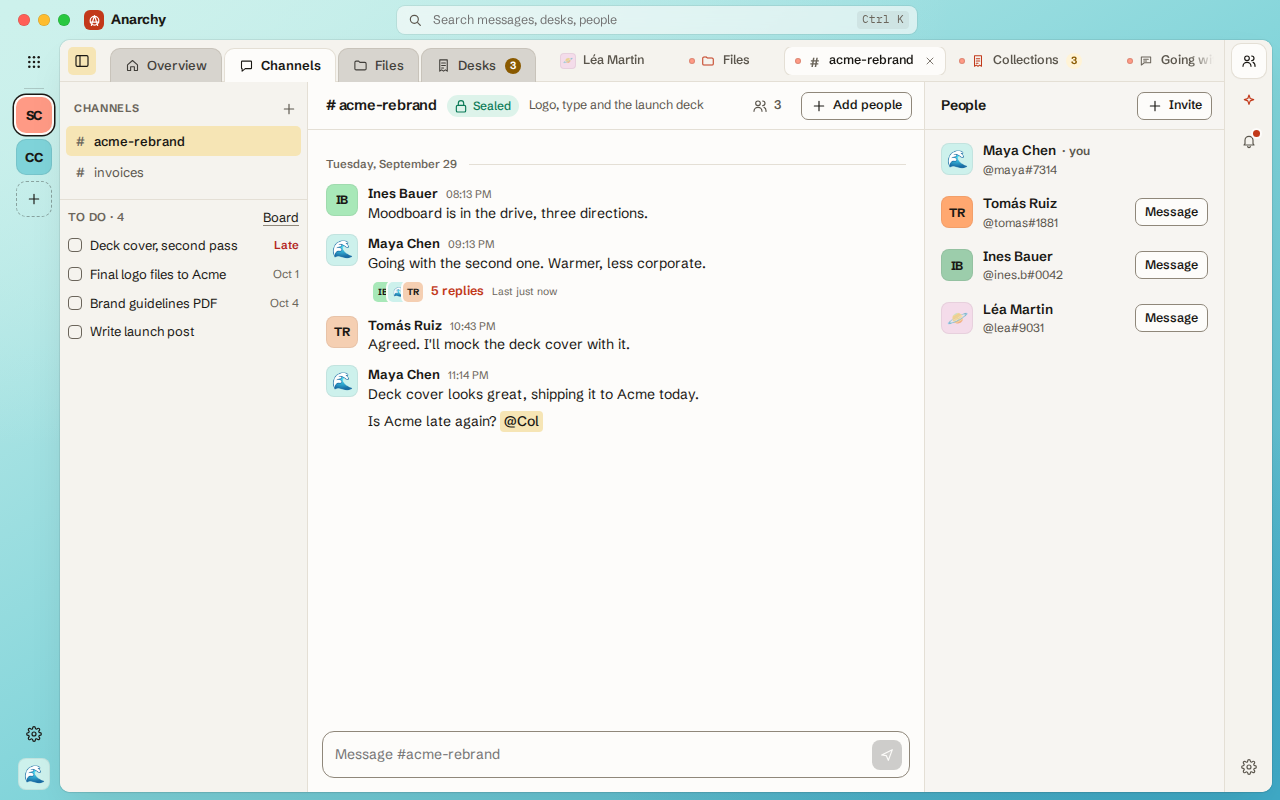
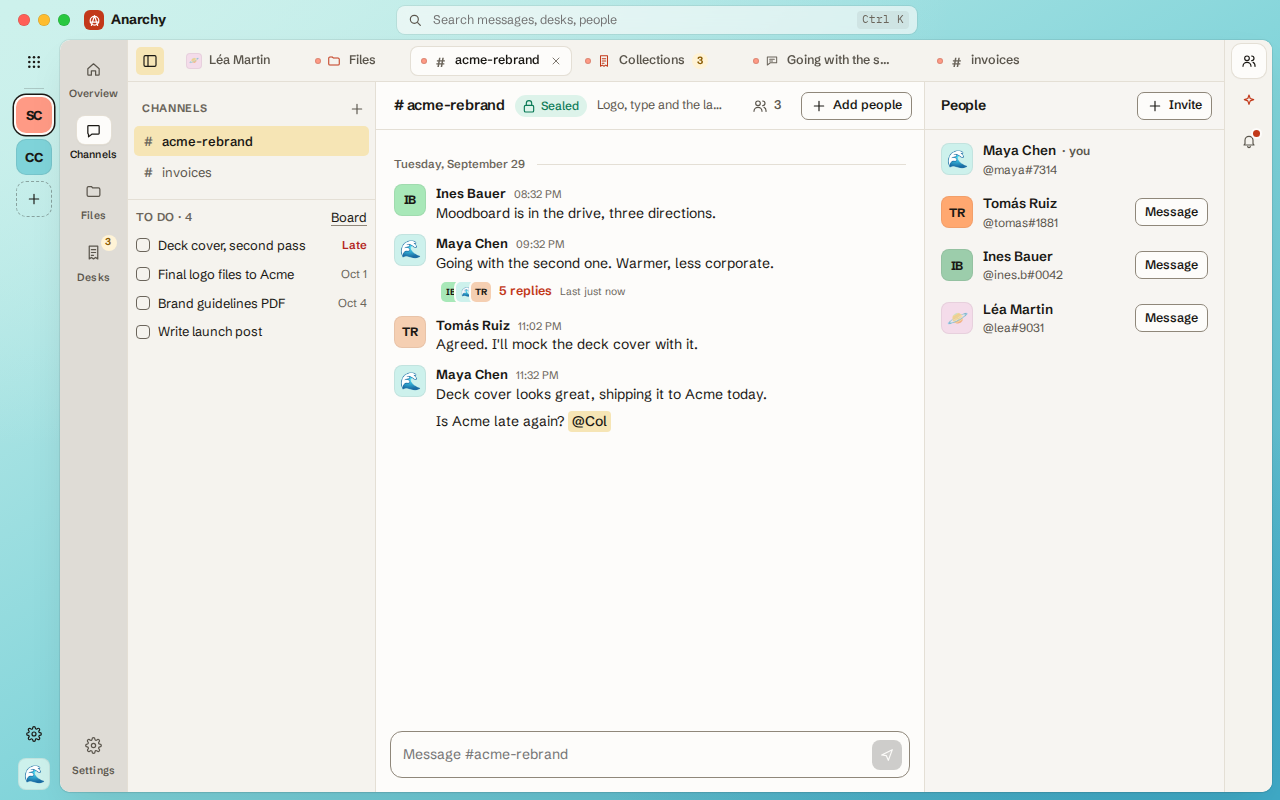
Sections move to a labelled strip on the left; tabs are only the working set
The space's sections (Home: Overview, Chats, Agenda, Notes, Files, Tasks;
a space: Overview, Channels, Files, Desks) sit in a strip beside the space
rail with icon and label; a space's settings open as a page from its foot.
In settings the strip lists the pages. The top row holds only what's open.
People, the assistant and notifications stay on the right. Docs: D30,
including the agent model (one sidekick per person; desks stay places).

Claude-Session: https://claude.ai/code/session_01JqRrPLnBLMGeUFp3LTktD7

diff --git a/apps/desktop/ui/app.js b/apps/desktop/ui/app.js
@@ -516,7 +516,7 @@ function belongsHere(c) {
   return view === "home" ? c.kind === "dm" : view === "space" && c.kind === "channel" && c.space === currentSpace?.id;
 }
 function hideMain() {
-  for (const v of ["view-start", "view-convo", "view-space-empty", "view-desk", "view-drive", "view-settings", "view-agenda", "view-notes", "view-board"]) show(v, false);
+  for (const v of ["view-start", "view-convo", "view-space-empty", "view-desk", "view-drive", "view-settings", "view-agenda", "view-notes", "view-board", "view-spaceset"]) show(v, false);
   show("view-desks", false);
 }
 function showStart() {
@@ -876,6 +876,7 @@ function sectionNow() {
   const cur = channels.find((c) => c.id === current);
   if (!cur && chatsHint && (view === "home" || view === "space")) return "chats";
   if (!$("view-desks").hidden) return "desks";
+  if (!$("view-spaceset").hidden) return "spaceset";
   if (!$("view-agenda").hidden) return "agenda";
   if (!$("view-notes").hidden) return note?.file ? "files" : notesState.shared ? "desks" : "notes";
   if (!cur) return "overview";
@@ -897,9 +898,13 @@ function renderFolders() {
       : [{ key: "overview", label: "Overview", icon: "home" }, { key: "chats", label: "Channels", icon: "chat", dot: unread }, { key: "files", label: "Files", icon: "folder" }, { key: "desks", label: "Desks", icon: "receipt", n: [...deskNeeds.entries()].filter(([id]) => channels.find((c) => c.id === id)?.space === currentSpace?.id).reduce((a, [, n]) => a + n, 0) }];
     folders = folders.map((f) => ({ ...f, active: f.key === now, go: () => openSection(f.key) }));
   }
-  $("folder-tabs").replaceChildren(...folders.map((f) => el("button", { class: `folder${f.active ? " active" : ""}`, type: "button", role: "tab", "aria-selected": String(!!f.active), onclick: f.go },
-    f.icon ? icon(f.icon) : null, el("span", { text: f.label }),
-    f.n ? el("span", { class: "tab-badge warn", text: String(f.n) }) : f.dot ? el("span", { class: "unread-dot", "aria-label": "unread" }) : null)));
+  const item = (f) => el("button", { class: `section${f.active ? " active" : ""}`, type: "button", role: "tab", "aria-selected": String(!!f.active), title: f.label, onclick: f.go },
+    f.icon ? el("span", { class: "section-icon" }, icon(f.icon), f.n ? el("span", { class: "tab-badge warn", text: String(f.n) }) : f.dot ? el("span", { class: "unread-dot", "aria-label": "unread" }) : null) : null,
+    el("span", { class: "section-label", text: f.label }));
+  $("folder-tabs").replaceChildren(...folders.map(item));
+  // A space's own settings sit at the foot of its sections.
+  $("section-foot").replaceChildren(...(view === "space" && currentSpace ? [item({ key: "spaceset", label: "Settings", icon: "settings", active: sectionNow() === "spaceset", go: openSpaceSettings })] : []));
+  $("sections").classList.toggle("pages", view === "settings");
   paintSide();
   show("tab-list", view !== "settings");
   show("tools", view !== "settings");
@@ -949,7 +954,7 @@ $("desks-new").addEventListener("click", () => openNewDesk());
 // ---------- drawers: chats and people pop over from the left ----------
 
 let drawer = null; // "chats" | "people" | "notifs" | "spaceset" | null
-const RIGHT_PANELS = ["people", "notifs", "spaceset"];
+const RIGHT_PANELS = ["people", "notifs"];
 let pinned = readStore("anarchy.chatsPinned", true);
 function toggleDrawer(name, force) {
   const open = force ?? drawer !== name;
@@ -960,7 +965,6 @@ function toggleDrawer(name, force) {
   paintDrawers();
   if (open && name === "people") renderPeopleDrawer();
   if (open && name === "notifs") renderNotifs();
-  if (open && name === "spaceset") renderSpaceSettings();
 }
 function closeDrawers() { drawer = null; paintDrawers(); }
 function paintDrawers() {
@@ -969,7 +973,6 @@ function paintDrawers() {
   const chatsOn = chatSection && (pinned || drawer === "chats");
   show("drawer-chats", chatsOn);
   for (const n of RIGHT_PANELS) { show(`drawer-${n}`, drawer === n); $(`tool-${n}`).setAttribute("aria-expanded", String(drawer === n)); }
-  show("tool-spaceset", view === "space" && !!currentSpace);
   syncDock();
   $("workspace").classList.toggle("chats-pinned", pinned);
   $("drawer-chats").classList.toggle("pinned", pinned);
@@ -996,7 +999,6 @@ $("tool-chats").addEventListener("click", () => {
 });
 $("tool-people").addEventListener("click", () => toggleDrawer("people"));
 $("tool-notifs").addEventListener("click", () => toggleDrawer("notifs"));
-$("tool-spaceset").addEventListener("click", () => toggleDrawer("spaceset"));
 for (const b of document.querySelectorAll(".drawer-pin")) b.addEventListener("click", () => { pinned = !pinned; writeStore("anarchy.chatsPinned", pinned); if (!pinned) drawer = null; paintDrawers(); });
 // Picking something in a pop-over closes it; clicking the canvas does too.
 $("drawer-chats").addEventListener("click", (e) => { if (!pinned && e.target.closest(".side-item")) setTimeout(closeDrawers, 0); });
@@ -3574,10 +3576,18 @@ const INTEGRATIONS = [
   { name: "Stripe", color: "#635bff", mark: "S", text: "Card payments on pay links, marked paid automatically. Needs the space's own Stripe account." },
   { name: "Mail", color: "#c2410c", mark: "@", text: "Send desk reminders from your own address (IMAP/SMTP, then Gmail and Microsoft)." },
 ];
+function openSpaceSettings() {
+  if (thread) closeThread();
+  current = null; invoke("blur");
+  closeDrawers();
+  hideMain(); show("view-spaceset");
+  renderSpaceSettings(); renderFolders(); renderTabs();
+}
 async function renderSpaceSettings() {
   const sp = currentSpace;
   if (!sp) return;
   const owner = sp.role === "owner";
+  $("ss-title").textContent = `${sp.name} settings`;
   $("ss-name").value = sp.name;
   $("ss-name").disabled = !owner; $("ss-save").hidden = !owner;
   show("ss-saved", false); setError("ss-error", "");
@@ -3608,7 +3618,6 @@ $("ss-leave").addEventListener("click", async () => {
   try {
     await invoke("leave_space", { space: sp.id });
     spaces = await invoke("spaces");
-    closeDrawers();
     renderRail(); go("home"); refreshChannels();
   } catch (err) { setError("ss-error", String(err)); }
 });

diff --git a/apps/desktop/ui/index.html b/apps/desktop/ui/index.html
@@ -283,13 +283,16 @@
         <button class="tool-btn" id="tool-people" type="button" title="People" aria-label="People" aria-expanded="false"><svg class="i"><use href="#i-users"/></svg></button>
         <button class="tool-btn ask-btn" id="tool-ask" data-ask type="button" title="Ask (Ctrl J)" aria-label="Ask" aria-expanded="false"><svg class="i"><use href="#i-sparkle"/></svg></button>
         <button class="tool-btn" id="tool-notifs" type="button" title="Notifications" aria-label="Notifications" aria-expanded="false"><svg class="i"><use href="#i-bell"/></svg><span class="tool-dot" id="notif-dot" hidden></span></button>
-        <span class="spacer"></span>
-        <button class="tool-btn" id="tool-spaceset" type="button" title="Space settings" aria-label="Space settings" aria-expanded="false" hidden><svg class="i"><use href="#i-settings"/></svg></button>
       </nav>
-      <!-- Folders: the space's sections, then what's open right now (the working set). -->
+      <!-- Sections of the space (or Home, or settings pages), on the left. -->
+      <nav class="sections" id="sections" aria-label="Sections">
+        <div class="section-list" id="folder-tabs" role="tablist" aria-orientation="vertical"></div>
+        <span class="spacer"></span>
+        <div class="section-list" id="section-foot"></div>
+      </nav>
+      <!-- The working set: what's open right now, as tabs. -->
       <div class="folders" id="tabs">
         <button class="icon-btn side-toggle" id="tool-chats" type="button" title="Show the sidebar (Ctrl \)" aria-label="Sidebar" aria-expanded="false"><svg class="i"><use href="#i-sidebar"/></svg><span class="tool-dot" id="tool-chats-dot" hidden></span></button>
-        <div class="folder-tabs" id="folder-tabs" role="tablist" aria-label="Sections"></div>
         <div class="tab-list" id="tab-list" role="tablist" aria-label="Open"></div>
       </div>
       <!-- Main -->
@@ -319,22 +322,7 @@
           <div class="notif-list" id="notif-list"></div>
           <p class="fine notif-foot">Reminders are worked out on this device from your agenda, tasks and invoices. Turn desktop alerts on or off in Settings, Notifications.</p>
         </aside>
-        <aside class="drawer rpanel" id="drawer-spaceset" aria-label="Space settings" hidden>
-          <header class="side-head"><h2>Space settings</h2></header>
-          <div class="spaceset" id="spaceset">
-            <form class="stack" id="spaceset-form" novalidate>
-              <label class="field" for="ss-name">Name<input class="text-input" id="ss-name" maxlength="64"></label>
-              <div class="row-actions"><button class="btn-ink inline sm" type="submit" id="ss-save">Rename</button><span class="saved" id="ss-saved" hidden>Saved</span></div>
-              <p class="error" id="ss-error" hidden></p>
-            </form>
-            <dl class="facts-list compact"><div><dt>Kind</dt><dd id="ss-kind"></dd></div><div><dt>You are</dt><dd id="ss-role"></dd></div><div><dt>Members</dt><dd id="ss-members"></dd></div></dl>
-            <p class="block-label">Integrations</p>
-            <div class="integ-list" id="integ-list"></div>
-            <p class="block-label">Leave</p>
-            <button class="btn-outline danger sm" id="ss-leave" type="button">Leave this space</button>
-            <p class="fine">The space, its people and its directory disappear from your account. Channels and desks you're already in keep your devices until a member removes you: leaving an encrypted channel yourself isn't built yet.</p>
-          </div>
-        </aside>
+
         <aside class="drawer rpanel" id="drawer-people" aria-label="People" hidden>
           <header class="side-head"><h2 id="people-title">People</h2><span class="spacer"></span><button class="btn-outline sm" id="space-invite" type="button"><svg class="i"><use href="#i-plus"/></svg><span>Invite</span></button></header>
           <div class="people-list" id="drawer-people-list"></div>
@@ -547,6 +535,24 @@
               <div class="desk-empty" id="time-empty" hidden><svg class="i"><use href="#i-clock2"/></svg><strong>No time tracked yet</strong><p class="fine">Start the timer or add hours by hand. Unbilled hours turn into a draft invoice in one step.</p></div>
             </div>
           </section>
+        </div>
+
+<div class="view spaceset-page" id="view-spaceset" hidden>
+          <h1 class="page-title" id="ss-title">Space settings</h1>
+            <p class="page-sub">Name, members and what this space could connect to.</p>
+          <div class="spaceset" id="spaceset">
+            <form class="stack" id="spaceset-form" novalidate>
+              <label class="field" for="ss-name">Name<input class="text-input" id="ss-name" maxlength="64"></label>
+              <div class="row-actions"><button class="btn-ink inline sm" type="submit" id="ss-save">Rename</button><span class="saved" id="ss-saved" hidden>Saved</span></div>
+              <p class="error" id="ss-error" hidden></p>
+            </form>
+            <dl class="facts-list compact"><div><dt>Kind</dt><dd id="ss-kind"></dd></div><div><dt>You are</dt><dd id="ss-role"></dd></div><div><dt>Members</dt><dd id="ss-members"></dd></div></dl>
+            <p class="block-label">Integrations</p>
+            <div class="integ-list" id="integ-list"></div>
+            <p class="block-label">Leave</p>
+            <button class="btn-outline danger sm" id="ss-leave" type="button">Leave this space</button>
+            <p class="fine">The space, its people and its directory disappear from your account. Channels and desks you're already in keep your devices until a member removes you: leaving an encrypted channel yourself isn't built yet.</p>
+          </div>
         </div>
 
         <!-- Settings pages -->

diff --git a/apps/desktop/ui/app.css b/apps/desktop/ui/app.css
@@ -1076,3 +1076,33 @@ svg.i.flip { transform: scaleX(-1); }
 .navseg.desk-views .n { font-size: 11px; font-weight: 700; min-width: 18px; height: 18px; padding: 0 5px; border-radius: 999px; display: inline-grid; place-items: center; background: var(--public, #b7791f); color: #fff; }
 .sub-head .search.pill { width: 200px; }
 #fm-add { justify-self: start; width: auto; }
+
+/* ---------- sections on the left, the working set on top (D30) ---------- */
+.workspace { grid-template-columns: auto minmax(0, 1fr) 48px; grid-template-areas: "sections folders tools" "sections main tools"; }
+.workspace.no-tools { grid-template-columns: auto minmax(0, 1fr) 0; }
+.workspace > .sections { grid-area: sections; }
+.sections { display: flex; flex-direction: column; align-items: stretch; width: 68px; padding: 8px 6px; gap: 4px; background: color-mix(in srgb, var(--ink) 7%, var(--surface-sunken)); border-right: 1px solid var(--border); border-radius: var(--radius-lg) 0 0 var(--radius-lg); overflow-y: auto; }
+.sections .spacer { flex: 1; }
+.section-list { display: grid; gap: 2px; }
+.section { display: grid; justify-items: center; gap: 3px; padding: 7px 2px 6px; border: 0; border-radius: 10px; background: transparent; color: var(--ink-muted); font: inherit; font-size: 10.5px; font-weight: 560; letter-spacing: .01em; cursor: pointer; }
+.section:hover { background: color-mix(in srgb, var(--ink) 7%, transparent); color: var(--ink); }
+.section-icon { position: relative; display: grid; place-items: center; width: 34px; height: 28px; border-radius: 8px; }
+.section-icon svg.i { width: 17px; height: 17px; }
+.section.active { color: var(--ink); }
+.section.active .section-icon { background: var(--surface); box-shadow: 0 0 0 1px var(--border), 0 1px 2px rgb(26 24 20 / .08); }
+.section-label { max-width: 100%; overflow: hidden; text-overflow: ellipsis; white-space: nowrap; }
+.section-icon .tab-badge { position: absolute; top: -4px; right: -6px; min-width: 16px; height: 16px; font-size: 10px; padding: 0 4px; }
+.section-icon .unread-dot { position: absolute; top: 2px; right: 3px; margin: 0; }
+/* Settings: the pages are words, so the strip gets wider. */
+.sections.pages { width: 200px; padding: 12px 8px; }
+.sections.pages .section { justify-items: start; padding: 8px 10px; font-size: 13px; font-weight: 540; }
+.sections.pages .section.active { background: var(--surface); box-shadow: 0 0 0 1px var(--border); }
+/* The top row is only the working set now. */
+.folders { border-radius: 0; align-items: center; gap: 8px; }
+.workspace.no-tools > .folders { border-radius: 0 var(--radius-lg) 0 0; }
+.folders .tab-list { flex: 1; height: 30px; }
+.spaceset-page { overflow-y: auto; padding: 28px 32px; }
+.spaceset-page > * { max-width: 560px; }
+.spaceset-page .spaceset { padding: 0; }
+.spaceset-page .page-title { margin: 0 0 6px; }
+.spaceset-page .page-sub { margin: 0 0 22px; }

diff --git a/docs/ARCHITECTURE.md b/docs/ARCHITECTURE.md
@@ -233,6 +233,7 @@ mcp_audit(id, client_id, user_id, tool, channels_touched[], ts)
 | D27 | **Tasks are a desk; your files and tasks are personal too.** | Decided 2026-09-29 | A board is a place you work in, so it's a desk kind (`tasks`): cards are records with a column, an order, a due date, who's on it and a label; columns are one settings record, the last one counts as done; moving a card in a shared board is logged in the desk's activity. The Overview gets a one-line summary card instead of the board. Home has its own Files and Tasks in personal channels (D25), and the file-manager share shows them as "My files". Cards with due dates and unpaid invoices appear on the agenda, worked out on the device. Layout: sections are a compact dark group, apart from the working-set tabs; desk notes sit on the right; People, the assistant and threads float inset on the right, the assistant with the frame's gradient on its edge. |
 | D28 | **Reminders and notifications are worked out on the device; integrations aren't switches yet.** | Decided 2026-09-29 | The server can't read agendas, boards or invoices, so it can't send reminders; each device checks every minute and shows a desktop alert 15 minutes before a timed event and from 9:00 on the day an invoice or card falls due (once a day while late), remembered locally so it fires once per device. The cost: nothing reminds you while the app is closed, and each of your devices alerts separately. The bell lists those reminders with unread conversations and what desks need. Sections are folder tabs again, in a darker shade than the working set; People, the assistant, notifications and space settings are flush columns like desk notes, the assistant alone with the gradient edge. Space settings rename (owners) and leave the space; leaving doesn't take your devices out of its MLS channels (that needs another member's commit), and the panel says so. Integrations (Linear, GitHub, models, calendars, Stripe, mail) are listed with what each would do and send, and none can be turned on: each needs its own connector, and model access needs a per-channel policy. Sidebar to-dos list open cards across boards, late first; one opens its board and card. |
 | D29 | **Shared pages, clients, time and intake live in desks; form answers are sealed to the desk, not to the link.** | Decided 2026-09-29 | A space's wiki is a desk kind (`pages`) using the notes editor (D25); a space can have several, and a new or deleted page is logged in its activity, edits aren't. Clients, time entries and intake requests are records in the Collections desk next to the invoices, so "invoice these hours" is one encrypted write (the draft invoice plus each entry marked billed) and the client list is visible only to the desk. A running timer is a record without an end, so it shows on every device; only its owner stops it. An intake form's link goes on public websites, so its `#fragment` key can't protect answers: each form has a P-256 key pair, the public half inside the sealed definition, the private half in the desk's records. The page encrypts answers with ephemeral ECDH, HKDF-SHA256 and AES-256-GCM in WebCrypto; the server stores ciphertext, at most 200 waiting per form, until a member's device opens them, saves them as requests and deletes them there (junk that doesn't open is deleted too). A request becomes a client card in one step. Limits: the served script caveat of D20; the operator sees when answers arrive and their size; a form can be flooded up to its cap, which only delays real answers; clients match invoices by id or by name. |
+| D30 | **Sections on the left, the working set on top; one sidekick per person, desks stay places.** | Decided 2026-09-29 | The top row mixed fixed places (Overview, Channels…) with things you opened, told apart only by shade. Sections now sit in a labelled strip beside the space rail (Home: Overview, Chats, Agenda, Notes, Files, Tasks; a space: Overview, Channels, Files, Desks, with its settings at the foot as a page); in settings the strip lists the pages. The top row is only the working set. People, the assistant and notifications stay on the right, next to the panels they open. Cost: about 376 px of left chrome with the chat list pinned. For agents: desks aren't renamed, because a desk is a place (records, rules, history) and an agent is an actor; one desk can have none or several. Each person gets one sidekick that acts as them and sees only what they can see (reachable from mobile); desks can have specialist agents owned by the space, and the sidekick hands work to them with @-mentions. Open: where the sidekick runs. On the person's devices it's private but stops when they're off; as a server-side device of theirs it works in the background but the operator can read what it reads, so it would be opt-in per channel with Sealed channels excluded. |
 
 ## 12. Open decisions
 
